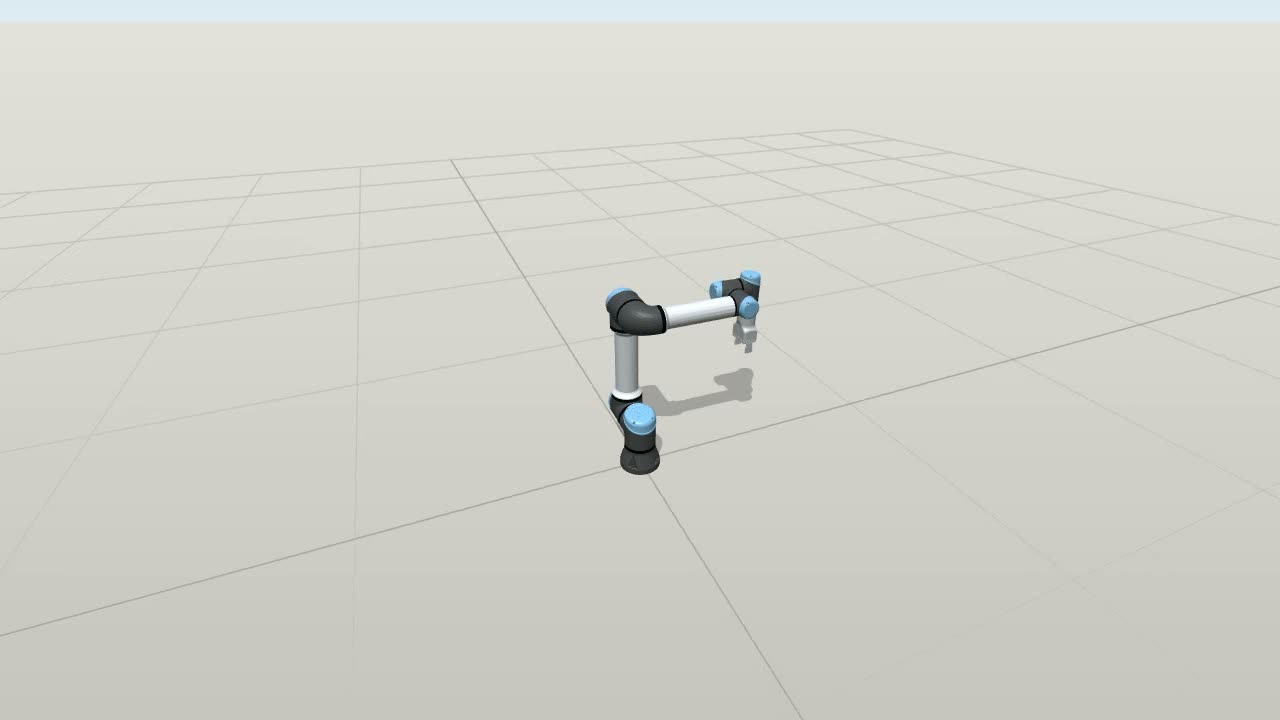
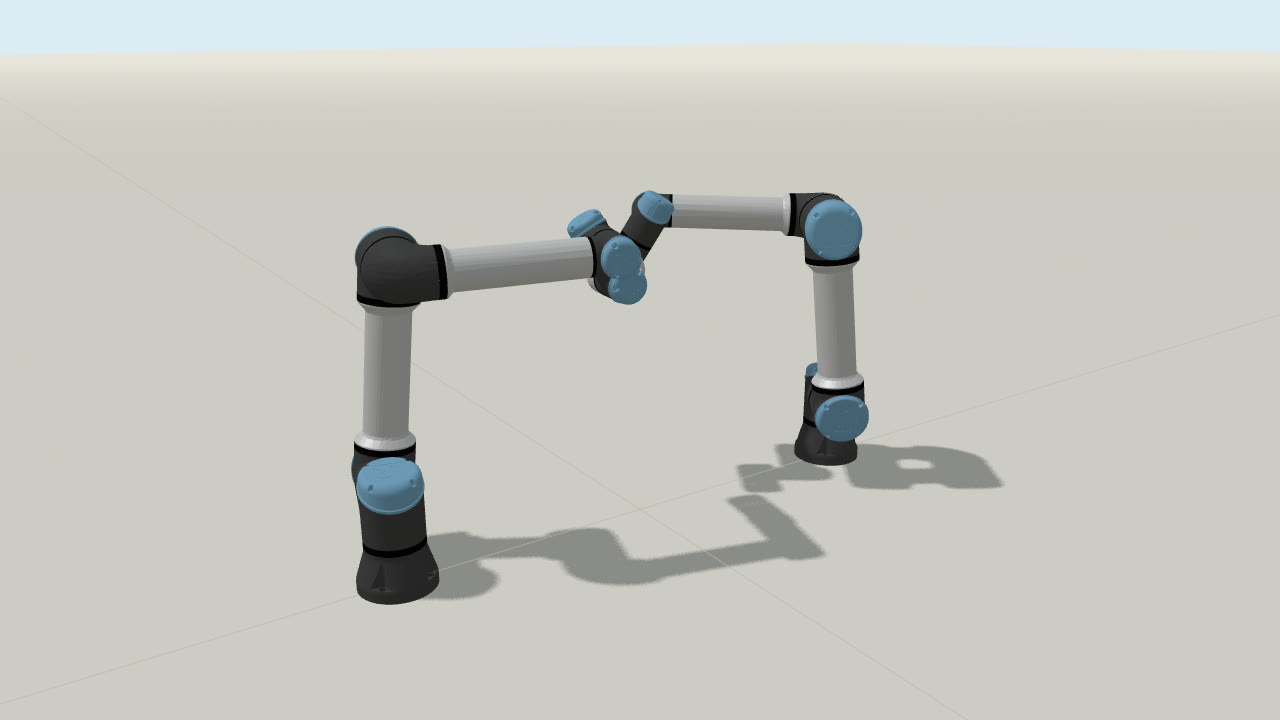
Two UR5e arms arm-wrestling in Simulation Studio tile; note multi-robot support
Archive the previous single-robot orbit video under assets/archive.

Claude-Session: https://claude.ai/code/session_01J7wmz9LR5o62o3BMVXNdf3

Changed region(s): [[0.25, 0.2444, 0.7812, 0.8556], [0.0, 0.0306, 1.0, 0.0917]]

diff --git a/index.html b/index.html
@@ -139,7 +139,7 @@
             <h3 class="heading-md">Simulation Studio</h3>
             <p class="body-sm">
               An interactive tool for building and validating robot simulation —
-              visualizing a UR5e arm in its 3D scene in real time.
+              load any URDF and compose multi-robot scenes that run in real time.
             </p>
           </div>
         </article>